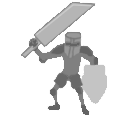
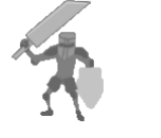
Fixed unit sizes and added begginings of squad movement

diff --git a/Civilization Game/source.js b/Civilization Game/source.js
@@ -93,6 +93,13 @@ function clearMap(){
     document.getElementById("SquadUnit1").src = "";
     document.getElementById("SquadUnit2").src = "";
     document.getElementById("SquadUnit3").src = "";
+    document.getElementById("SquadUnit4").src = "";
+    document.getElementById("SquadUnit5").src = "";
+    document.getElementById("SquadUnit6").src = "";
+    document.getElementById("SquadUnit7").src = "";
+    document.getElementById("SquadUnit8").src = "";
+    document.getElementById("SquadUnit9").src = "";
+    document.getElementById("SquadUnit10").src = "";
     document.getElementById("Slider1").src = "";
     document.getElementById("Slider2").src = "";
     document.getElementById("SliderBackground1").src = "";
@@ -119,17 +126,14 @@ function setup() {
     document.getElementById("MapUnit1").style.top=0;
     document.getElementById("MapUnit2").style.left=0;
     document.getElementById("MapUnit2").style.top=0;
-    document.getElementById("SquadUnit1").style.left=1025;
-    document.getElementById("SquadUnit1").style.top=0;
-    document.getElementById("SquadUnit2").style.left=1025;
-    document.getElementById("SquadUnit2").style.top=0;
-    document.getElementById("SquadUnit3").style.left=1025;
-    document.getElementById("SquadUnit3").style.top=0;
+
 
 
     for(var a=0;a<maximumUnits;a++){
         document.getElementById("GarrisonUnit"+(a+1)).style.left = 1325;
         document.getElementById("GarrisonUnit"+(a+1)).style.top = 0;
+        document.getElementById("SquadUnit"+(a+1)).style.left = 1025;
+        document.getElementById("SquadUnit"+(a+1)).style.top = 0;
     }
 }
 
@@ -154,6 +158,20 @@ function draw() {
 }
 
 function mouseReleased() {
+
+    if(mapUnitIsHeld==true){
+        console.log("1");
+        for(var a=0;a<towns.length;a++){
+            console.log(towns.length);
+            console.log(document.getElementById("town"+(a+1)).style.left,mouseX,document.getElementById("town"+(a+1)).style.top,mouseY+800);
+            if(mouseIsContainedIn(parseInt(document.getElementById("town"+(a+1)).style.left),parseInt(document.getElementById("town"+(a+1)).style.top),parseInt(document.getElementById("town"+(a+1)).style.left)+110,parseInt(document.getElementById("town"+(a+1)).style.top)+100)){
+                console.log("2");
+                squads[mapUnitNumber-1].x = towns[a].x;
+                squads[mapUnitNumber-1].y = towns[a].y;
+            }
+        }
+    }
+
     if(squadListUnitHeld==true){
         if(mouseIsContainedIn(1320,810,1525,960)){
             for(var a=0;a<towns.length;a++){
@@ -358,13 +376,16 @@ function mousePressed(){
         if(selection == towns[e]){
             if(towns[e].garrison.length>0){
                 for(var d=0;d<towns[e].garrison.length;d++){
-                    if(mouseIsContainedIn(parseInt(document.getElementById("GarrisonUnit"+(d+1)).style.left),parseInt(document.getElementById("GarrisonUnit"+(d+1)).style.top),parseInt(document.getElementById("GarrisonUnit"+(d+1)).style.left)+200,parseInt(document.getElementById("GarrisonUnit"+(d+1)).style.top)+40)){
-                        if(mouseIsPressed && townSelected == true){     
-                            garrisonUnitIsHeld = true;
-                            garrisonUnitNumber = d+1;
-                            console.log(d+1);
-                        }    
-                    }                  
+                    if(document.getElementById("GarrisonUnit"+(d+1)) != null){
+                        if(mouseIsContainedIn(parseInt(document.getElementById("GarrisonUnit"+(d+1)).style.left),parseInt(document.getElementById("GarrisonUnit"+(d+1)).style.top),parseInt(document.getElementById("GarrisonUnit"+(d+1)).style.left)+200,parseInt(document.getElementById("GarrisonUnit"+(d+1)).style.top)+40)){
+                            if(mouseIsPressed && townSelected == true){     
+                                garrisonUnitIsHeld = true;
+                                garrisonUnitNumber = d+1;
+                                console.log(d+1);
+                            }    
+                        }     
+                    }
+                                     
                 }    
             } 
         }
@@ -375,10 +396,12 @@ function mousePressed(){
             for(var d=0;d<squads.length;d++){
                 if(squads[d].x == towns[e].x && squads[d].y == towns[e].y){
                     for(var a=0;a<squads[d].units.length;a++){
-                        if(mouseIsContainedIn(parseInt(document.getElementById("SquadUnit"+(a+1)).style.left),parseInt(document.getElementById("SquadUnit"+(a+1)).style.top),parseInt(document.getElementById("SquadUnit"+(a+1)).style.left)+200,parseInt(document.getElementById("SquadUnit"+(a+1)).style.top)+40)){
-                            if(mouseIsPressed && townSelected == true){     
-                                squadListUnitHeld = true;
-                                squadListUnitNumber = a+1;
+                        if(document.getElementById("SquadUnit"+(a+1)) != null){
+                            if(mouseIsContainedIn(parseInt(document.getElementById("SquadUnit"+(a+1)).style.left),parseInt(document.getElementById("SquadUnit"+(a+1)).style.top),parseInt(document.getElementById("SquadUnit"+(a+1)).style.left)+200,parseInt(document.getElementById("SquadUnit"+(a+1)).style.top)+40)){
+                                if(mouseIsPressed && townSelected == true){     
+                                    squadListUnitHeld = true;
+                                    squadListUnitNumber = a+1;
+                                }    
                             }    
                         }
                     }

diff --git a/Civilization Game/index.html b/Civilization Game/index.html
@@ -237,6 +237,41 @@
       left: 1025px;
       top: 860px;
     }
+    #SquadUnit4 {
+      position: absolute;
+      left: 1025px;
+      top: 860px;
+    }
+    #SquadUnit5 {
+      position: absolute;
+      left: 1025px;
+      top: 860px;
+    }
+    #SquadUnit6 {
+      position: absolute;
+      left: 1025px;
+      top: 860px;
+    }
+    #SquadUnit7 {
+      position: absolute;
+      left: 1025px;
+      top: 860px;
+    }
+    #SquadUnit8 {
+      position: absolute;
+      left: 1025px;
+      top: 860px;
+    }
+    #SquadUnit9 {
+      position: absolute;
+      left: 1025px;
+      top: 860px;
+    }
+    #SquadUnit10 {
+      position: absolute;
+      left: 1025px;
+      top: 860px;
+    }
     #SliderBackground1 {
       position: absolute;
       left: 1228px;
@@ -316,6 +351,13 @@
   <img src="graphics/SwordsmanListUnit.png" id="SquadUnit1" draggable="false">
   <img src="graphics/SwordsmanListUnit.png" id="SquadUnit2" draggable="false">
   <img src="graphics/SwordsmanListUnit.png" id="SquadUnit3" draggable="false">
+  <img src="graphics/SwordsmanListUnit.png" id="SquadUnit4" draggable="false">
+  <img src="graphics/SwordsmanListUnit.png" id="SquadUnit5" draggable="false">
+  <img src="graphics/SwordsmanListUnit.png" id="SquadUnit6" draggable="false">
+  <img src="graphics/SwordsmanListUnit.png" id="SquadUnit7" draggable="false">
+  <img src="graphics/SwordsmanListUnit.png" id="SquadUnit8" draggable="false">
+  <img src="graphics/SwordsmanListUnit.png" id="SquadUnit9" draggable="false">
+  <img src="graphics/SwordsmanListUnit.png" id="SquadUnit10" draggable="false">
   <img src="graphics/SliderBackground.png" id="SliderBackground1" draggable="false">
   <img src="graphics/SliderBackground.png" id="SliderBackground2" draggable="false">
   <img src="graphics/Slider.png" id="Slider1" draggable="false">

diff --git a/Civilization Game/towns.js b/Civilization Game/towns.js
@@ -46,7 +46,7 @@ function Town(x,y,i){
                         if(selection == towns[b]){
                             if(squads[a].x == towns[b].x && squads[a].y == towns[b].y){
                                 for(var c=0;c<squads[a].units.length;c++){
-                                    if(squads[a].units[c] != null){
+                                    if(squads[a].units[c] != null && document.getElementById("SquadUnit"+(c+1)) != null){
                                         document.getElementById("SquadUnit"+(c+1)).style.left = 1025;
                                         if(squads[a].units[c].unitType == 1){
                                             document.getElementById("SquadUnit" + (c+1)).src = "graphics/SwordsmanListUnit.png";
